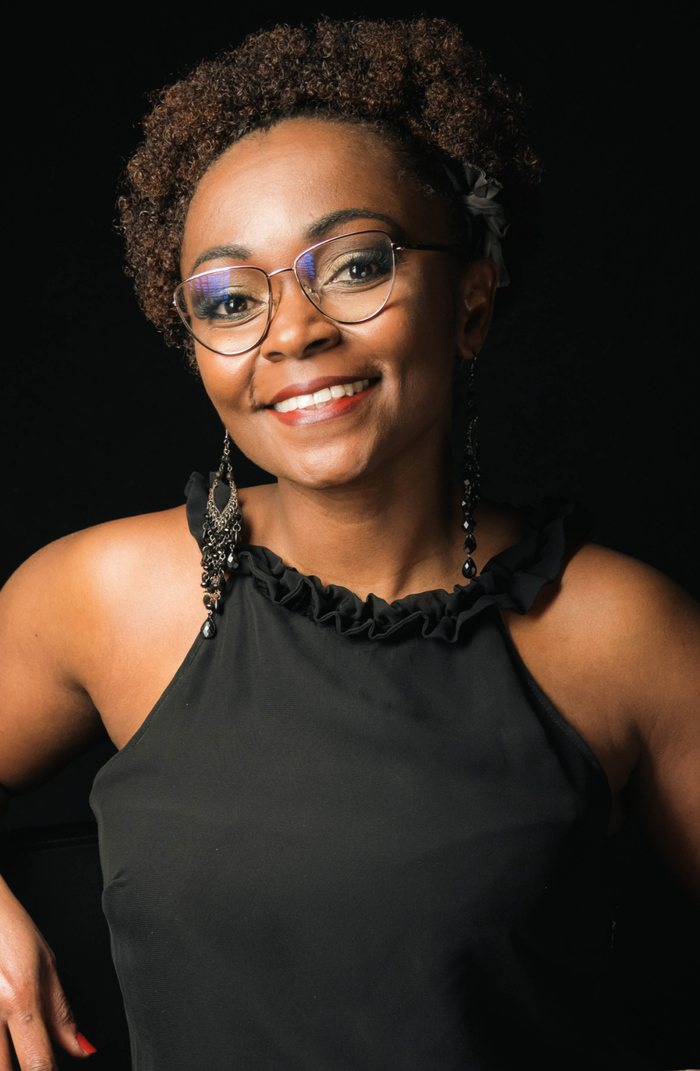
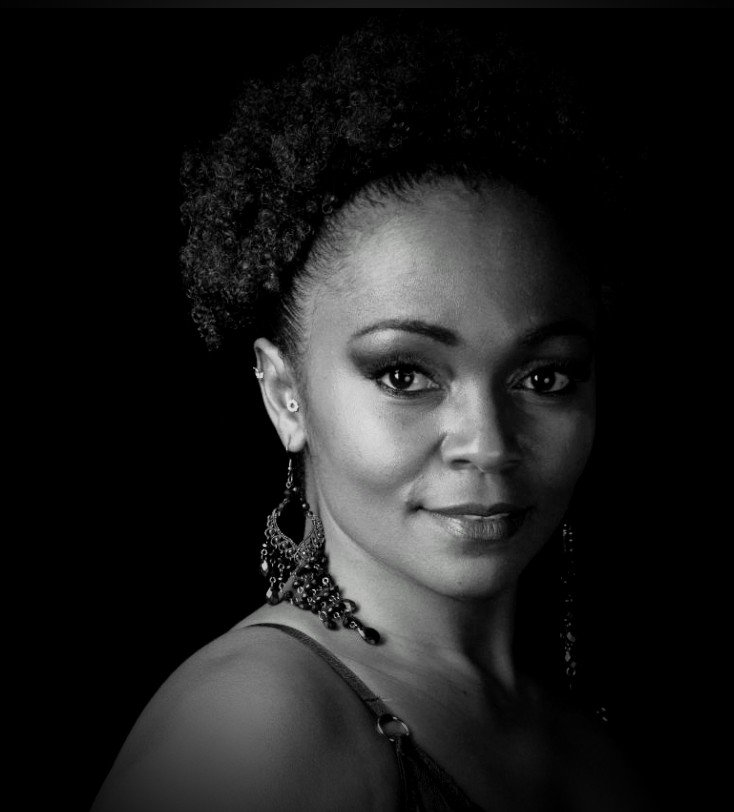
Portrait, ruban mobile et lexique sur la page massages

diff --git a/public/index.html b/public/index.html
@@ -173,8 +173,8 @@
           <p class="sous">Relaxation &amp; ayurvéda</p>
           <ul>
             <li>Soins ciblés express — 30 min</li>
-            <li><a class="term" href="#massage-harmonisant">Massage harmonisant</a> — 1 h 00</li>
-            <li><a class="term" href="#massage-ayurvedique">Massage ayurvédique</a> — 1 h 15</li>
+            <li><a class="term" href="/massages#massage-harmonisant" data-def="Massage global, fluide et enveloppant : nuque, épaules, dos et pieds, pour un lâcher-prise profond et durable.">Massage harmonisant</a> — 1 h 00</li>
+            <li><a class="term" href="/massages#massage-ayurvedique" data-def="Massage traditionnel indien à l'huile chaude : mouvements lents, points marmas, relâchement profond et apaisement du système nerveux.">Massage ayurvédique</a> — 1 h 15</li>
           </ul>
           <a class="more" href="/massages">Découvrir les massages</a>
         </article>
@@ -214,7 +214,7 @@
   <section id="institut" class="section section-parchment about">
     <div class="wrap about-grid">
       <figure class="reveal">
-        <img class="about-portrait" src="/img/portrait.jpg" alt="Portrait de Bibi Ahamadi, fondatrice de PranaBibi" width="700" height="1071" loading="lazy" decoding="async">
+        <img class="about-portrait" src="/img/portrait.jpg" alt="Portrait de Bibi Ahamadi, fondatrice de PranaBibi" width="734" height="812" loading="lazy" decoding="async">
         <figcaption>Photo&nbsp;: Phil.G_Photography</figcaption>
       </figure>
       <div class="reveal">
@@ -224,32 +224,6 @@
         <p>Formée au massage ayurvédique au centre Prana d'Ittre, j'ai créé PranaBibi à Arquennes, à quelques pas de Nivelles, pour faire voyager vos sens et relancer votre Prana — le souffle de vie, essentiel à votre vitalité.</p>
         <p class="signature">Pranament vôtre…</p>
       </div>
-    </div>
-  </section>
-
-  <section id="lexique" class="section section-parchment lexique">
-    <div class="wrap">
-      <div class="sec-head reveal">
-        <p class="eyebrow">Lexique</p>
-        <h2>Deux massages, deux intentions</h2>
-        <div class="divider"><img src="/brand/seal.jpg" alt="" width="30" height="30" loading="lazy" decoding="async"></div>
-        <p class="lead">Les mots que nous employons, expliqués simplement.</p>
-      </div>
-      <div class="lexique-grid">
-        <article id="massage-ayurvedique" class="lexique-card reveal">
-          <h3>Massage ayurvédique <span>(abhyanga)</span></h3>
-          <p>Le massage ayurvédique, ou abhyanga, est une technique traditionnelle indienne qui utilise des huiles chaudes infusées de plantes, choisies selon votre constitution. Les mouvements longs et lents, dirigés des extrémités vers le cœur, suivent le trajet du système lymphatique : ils aident le corps à évacuer les toxines, réduisent la rétention d'eau et renforcent l'immunité, comme un drainage lymphatique manuel.</p>
-          <p>Le praticien travaille également les points marmas : 107 points vitaux du corps, situés aux carrefours des muscles, des vaisseaux et des articulations. Massés avec des pressions douces, ils libèrent les tensions profondes, rééquilibrent l'énergie vitale (le prana) et apaisent le système nerveux.</p>
-          <p>Résultat : un relâchement physique et mental complet, une peau nourrie et une sensation globale de légèreté.</p>
-        </article>
-        <article id="massage-harmonisant" class="lexique-card reveal">
-          <h3>Massage harmonisant</h3>
-          <p>Le massage harmonisant est un soin global qui vise à rétablir l'équilibre entre corps et esprit. Par des mouvements fluides et enveloppants, associant effleurages, pressions douces et rythmes lents, il invite à un lâcher-prise profond et immédiat.</p>
-          <p>L'attention est portée sur les zones de tension accumulée : nuque, épaules, dos et pieds. Chaque geste est synchronisé sur votre respiration, ce qui ralentit progressivement le rythme cardiaque et calme le système nerveux.</p>
-          <p>Le mot-clé : apaisement. Ce massage ne cherche pas à corriger ni à performer, mais à faire taire le bruit intérieur. À la sortie, le corps est relâché, l'esprit est clair et la tension nerveuse a laissé place à une sérénité durable. Idéal en période de stress, de surcharge mentale ou de fatigue accumulée.</p>
-        </article>
-      </div>
-      <p class="lexique-back"><a href="#soins">Retour aux soins</a></p>
     </div>
   </section>
 
@@ -297,7 +271,7 @@
       <a href="/epilations">Épilations</a>
       <a href="/extensions-de-cils">Extensions de cils</a>
       <a href="/faq">FAQ</a>
-      <a href="/#lexique">Lexique</a>
+      <a href="/massages#lexique">Lexique</a>
       <a href="/tarifs">Tarifs</a>
       <a href="/#contact">Contact</a>
     </nav>

diff --git a/public/massages.html b/public/massages.html
@@ -139,10 +139,10 @@
 
         <h2>Les massages complets</h2>
 
-        <h3>Massage harmonisant — 1 h 00, 65 €</h3>
+        <h3><a class="term" href="#massage-harmonisant" data-def="Massage global, fluide et enveloppant : nuque, épaules, dos et pieds, pour un lâcher-prise profond et durable.">Massage harmonisant</a> — 1 h 00, 65 €</h3>
         <p>Un massage complet du corps, enveloppant et progressif, pour relâcher les tensions et rééquilibrer le corps et l'esprit.</p>
 
-        <h3>Massage ayurvédique — 1 h 15, 80 €</h3>
+        <h3><a class="term" href="#massage-ayurvedique" data-def="Massage traditionnel indien à l'huile chaude : mouvements lents, points marmas, relâchement profond et apaisement du système nerveux.">Massage ayurvédique</a> — 1 h 15, 80 €</h3>
         <p>Un massage traditionnel aux huiles, rythmé par le souffle, pour relancer l'énergie vitale — le Prana. Une immersion sensorielle et relaxante.</p>
 
         <h2>Comment se déroule un massage ?</h2>
@@ -173,6 +173,32 @@
       </div>
     </div>
   </div>
+
+  <section id="lexique" class="section section-parchment lexique">
+    <div class="wrap">
+      <div class="sec-head reveal">
+        <p class="eyebrow">Lexique</p>
+        <h2>Deux massages, deux intentions</h2>
+        <div class="divider"><img src="/brand/seal.jpg" alt="" width="30" height="30" loading="lazy" decoding="async"></div>
+        <p class="lead">Les mots que nous employons, expliqués simplement.</p>
+      </div>
+      <div class="lexique-grid">
+        <article id="massage-ayurvedique" class="lexique-card reveal">
+          <h3>Massage ayurvédique <span>(abhyanga)</span></h3>
+          <p>Le massage ayurvédique, ou abhyanga, est une technique traditionnelle indienne qui utilise des huiles chaudes infusées de plantes, choisies selon votre constitution. Les mouvements longs et lents, dirigés des extrémités vers le cœur, suivent le trajet du système lymphatique : ils aident le corps à évacuer les toxines, réduisent la rétention d'eau et renforcent l'immunité, comme un drainage lymphatique manuel.</p>
+          <p>Le praticien travaille également les points marmas : 107 points vitaux du corps, situés aux carrefours des muscles, des vaisseaux et des articulations. Massés avec des pressions douces, ils libèrent les tensions profondes, rééquilibrent l'énergie vitale (le prana) et apaisent le système nerveux.</p>
+          <p>Résultat : un relâchement physique et mental complet, une peau nourrie et une sensation globale de légèreté.</p>
+        </article>
+        <article id="massage-harmonisant" class="lexique-card reveal">
+          <h3>Massage harmonisant</h3>
+          <p>Le massage harmonisant est un soin global qui vise à rétablir l'équilibre entre corps et esprit. Par des mouvements fluides et enveloppants, associant effleurages, pressions douces et rythmes lents, il invite à un lâcher-prise profond et immédiat.</p>
+          <p>L'attention est portée sur les zones de tension accumulée : nuque, épaules, dos et pieds. Chaque geste est synchronisé sur votre respiration, ce qui ralentit progressivement le rythme cardiaque et calme le système nerveux.</p>
+          <p>Le mot-clé : apaisement. Ce massage ne cherche pas à corriger ni à performer, mais à faire taire le bruit intérieur. À la sortie, le corps est relâché, l'esprit est clair et la tension nerveuse a laissé place à une sérénité durable. Idéal en période de stress, de surcharge mentale ou de fatigue accumulée.</p>
+        </article>
+      </div>
+      <p class="lexique-back"><a href="/tarifs">Voir les tarifs</a></p>
+    </div>
+  </section>
 
   <section class="cta-band">
     <div class="wrap">
@@ -208,7 +234,7 @@
       <a href="/epilations">Épilations</a>
       <a href="/extensions-de-cils">Extensions de cils</a>
       <a href="/faq">FAQ</a>
-      <a href="/#lexique">Lexique</a>
+      <a href="/massages#lexique">Lexique</a>
       <a href="/tarifs">Tarifs</a>
       <a href="/#contact">Contact</a>
     </nav>

diff --git a/public/js/main.js b/public/js/main.js
@@ -105,6 +105,41 @@
     onRibbonScroll();
   }
 
+  /* Bulle de définition au survol des termes de massage */
+  var terms = document.querySelectorAll('.term[data-def]');
+  if (terms.length && window.matchMedia('(hover: hover)').matches) {
+    var tip = document.createElement('div');
+    tip.className = 'term-tooltip';
+    tip.setAttribute('role', 'tooltip');
+    tip.hidden = true;
+    document.body.appendChild(tip);
+
+    var showTip = function (el) {
+      tip.textContent = el.getAttribute('data-def');
+      tip.hidden = false;
+      var r = el.getBoundingClientRect();
+      var tw = tip.offsetWidth;
+      var th = tip.offsetHeight;
+      var left = Math.min(Math.max(12, r.left + r.width / 2 - tw / 2), window.innerWidth - tw - 12);
+      var top = r.top - th - 10;
+      if (top < 12) top = r.bottom + 10;
+      tip.style.left = left + 'px';
+      tip.style.top = top + 'px';
+    };
+
+    var hideTip = function () { tip.hidden = true; };
+
+    terms.forEach(function (el) {
+      el.addEventListener('mouseenter', function () { showTip(el); });
+      el.addEventListener('mouseleave', hideTip);
+      el.addEventListener('focus', function () { showTip(el); });
+      el.addEventListener('blur', hideTip);
+      el.addEventListener('click', hideTip);
+    });
+
+    window.addEventListener('scroll', hideTip, { passive: true });
+  }
+
   var year = document.getElementById('year');
   if (year) year.textContent = new Date().getFullYear();
 })();

diff --git a/public/css/style.css b/public/css/style.css
@@ -602,6 +602,8 @@ nav .cta:hover { background: var(--gold); color: var(--espresso); }
 .about-portrait {
   width: 100%;
   height: auto;
+  aspect-ratio: 4 / 5;
+  object-fit: cover;
   border-radius: 12px;
   border: 1px solid rgba(201, 157, 82, .65);
   box-shadow: 0 22px 55px rgba(42, 10, 6, .20);
@@ -1419,7 +1421,8 @@ body.has-promo .hero { padding-top: 48px; }
   .lexique-grid { grid-template-columns: 1fr; }
   .promo-bar { top: 72px; margin-top: 72px; }
   body.has-promo .hero { padding-top: 40px; }
-  .gift-ribbon { display: none; }
+  .gift-ribbon { top: 173px; transform: scale(.4); }
+  .gift-ribbon.compact { transform: scale(.28); }
 }
 
 @media (max-width: 600px) {
@@ -1437,3 +1440,22 @@ body.has-promo .hero { padding-top: 48px; }
 @media (prefers-reduced-motion: reduce) {
   .promo-bar { transition: none; }
 }
+
+/* Bulle de définition des massages */
+
+.term-tooltip {
+  position: fixed;
+  z-index: 90;
+  max-width: 320px;
+  padding: 14px 16px;
+  background: var(--ivory);
+  border: 1px solid rgba(201, 157, 82, .55);
+  border-radius: 8px;
+  box-shadow: 0 18px 40px rgba(42, 10, 6, .20);
+  font-family: var(--font-body);
+  font-size: 13.5px;
+  line-height: 1.5;
+  color: var(--ink);
+  pointer-events: none;
+}
+.term-tooltip[hidden] { display: none; }

diff --git a/public/epilations.html b/public/epilations.html
@@ -234,7 +234,7 @@
       <a href="/epilations">Épilations</a>
       <a href="/extensions-de-cils">Extensions de cils</a>
       <a href="/faq">FAQ</a>
-      <a href="/#lexique">Lexique</a>
+      <a href="/massages#lexique">Lexique</a>
       <a href="/tarifs">Tarifs</a>
       <a href="/#contact">Contact</a>
     </nav>

diff --git a/public/extensions-de-cils.html b/public/extensions-de-cils.html
@@ -194,7 +194,7 @@
       <a href="/epilations">Épilations</a>
       <a href="/extensions-de-cils">Extensions de cils</a>
       <a href="/faq">FAQ</a>
-      <a href="/#lexique">Lexique</a>
+      <a href="/massages#lexique">Lexique</a>
       <a href="/tarifs">Tarifs</a>
       <a href="/#contact">Contact</a>
     </nav>

diff --git a/public/faq.html b/public/faq.html
@@ -212,7 +212,7 @@
       <a href="/epilations">Épilations</a>
       <a href="/extensions-de-cils">Extensions de cils</a>
       <a href="/faq">FAQ</a>
-      <a href="/#lexique">Lexique</a>
+      <a href="/massages#lexique">Lexique</a>
       <a href="/tarifs">Tarifs</a>
       <a href="/#contact">Contact</a>
     </nav>

diff --git a/public/tarifs.html b/public/tarifs.html
@@ -247,7 +247,7 @@
       <a href="/epilations">Épilations</a>
       <a href="/extensions-de-cils">Extensions de cils</a>
       <a href="/faq">FAQ</a>
-      <a href="/#lexique">Lexique</a>
+      <a href="/massages#lexique">Lexique</a>
       <a href="/tarifs">Tarifs</a>
       <a href="/#contact">Contact</a>
     </nav>

diff --git a/public/404.html b/public/404.html
@@ -57,7 +57,7 @@
       <a href="/epilations">Épilations</a>
       <a href="/extensions-de-cils">Extensions de cils</a>
       <a href="/faq">FAQ</a>
-      <a href="/#lexique">Lexique</a>
+      <a href="/massages#lexique">Lexique</a>
       <a href="/tarifs">Tarifs</a>
       <a href="/#contact">Contact</a>
     </nav>

diff --git a/public/mentions-legales.html b/public/mentions-legales.html
@@ -97,7 +97,7 @@
       <a href="/epilations">Épilations</a>
       <a href="/extensions-de-cils">Extensions de cils</a>
       <a href="/faq">FAQ</a>
-      <a href="/#lexique">Lexique</a>
+      <a href="/massages#lexique">Lexique</a>
       <a href="/tarifs">Tarifs</a>
       <a href="/#contact">Contact</a>
     </nav>
